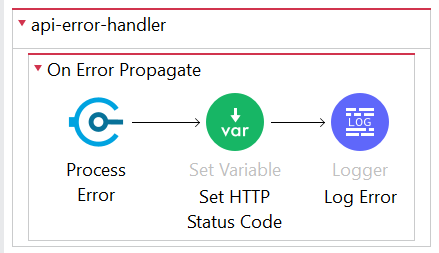
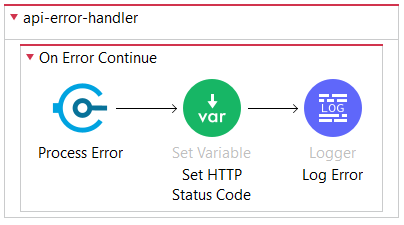
Added errorLog feature and updated docs

diff --git a/exchange-docs/home.md b/exchange-docs/home.md
@@ -1,4 +1,4 @@
-# API Error Handler
+# API Error Handler Overview
 
 This error handler module processes any errors thrown in a flow and transforms to the correct JSON response body and HTTP status code for an API.
 
@@ -135,11 +135,9 @@ Add `vars.httpStatus` to the listener's `http:response` and `http:error-response
 
 ## Error Handler Flow
 
-1. Drag the *Process Error* operation from Studio's palette into the error handler to transform errors into API response.  Place the module inside an error block: `on-error-continue`.
-2. Set vars.httpStatus = attributes.httpStatus
-3. Log error message: attributes.errorLog
-4. Reference this error handler in the APIkit's main flow to be the top-level error handler for the API.
+Drag the *Process Error* operation from Studio's palette into the error handler to transform errors into API response.  Place the module inside an error block: `on-error-propagate`.  You usually would not use `on-error-continue` since the error handler module generates the API's error response to the caller.
 
+Reference this error handler in the APIkit's main flow to be the top-level error handler for the API.
 
 **Module XML**
 
